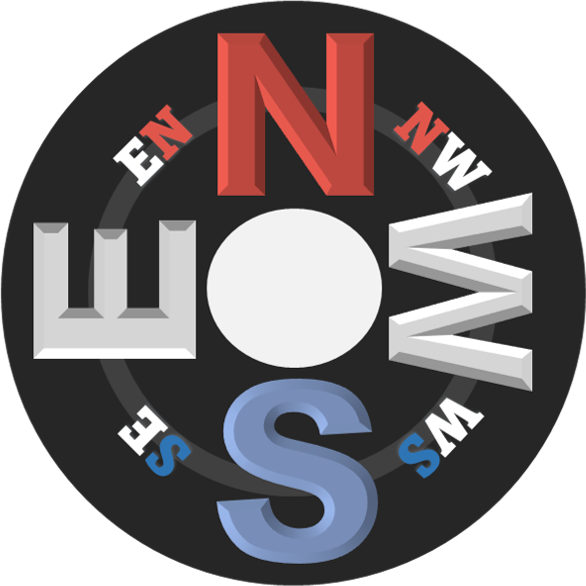
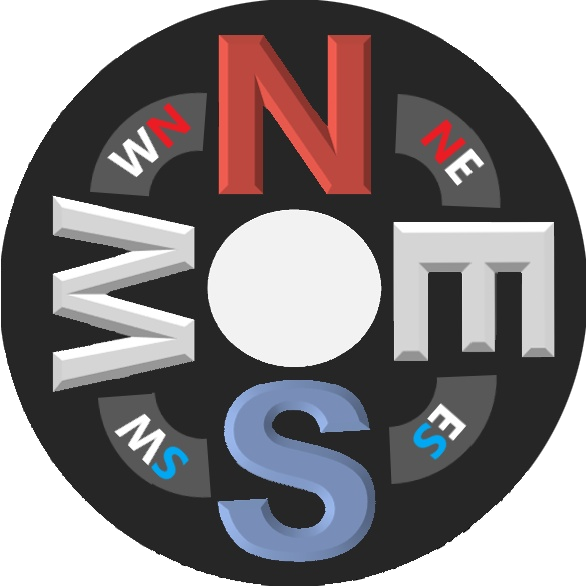
img_direction update

diff --git a/selfdrive/ui/qt/atom/paint.cc b/selfdrive/ui/qt/atom/paint.cc
@@ -576,7 +576,7 @@ void OnPaint::bb_draw_compass(QPainter &p, int compass_x, int compass_y )
     p.save();
     p.setOpacity(0.8);
     p.translate( compass_x+size, compass_y+size);
-    p.rotate( m_param.bearingUblox );
+    p.rotate( -m_param.bearingUblox );
     p.drawPixmap( -size , -size, img_direction );
     p.restore();
 
